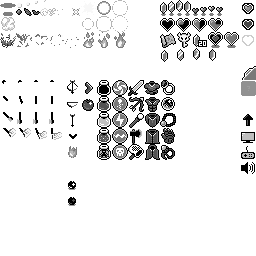
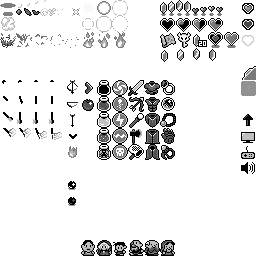
updated GameObjFunctions.SetType() to set all vendor object's sprite sheet to main sheet. moved vendors back into the main sheet, so we don't pollute dungeon sheets unnecessarily. moved rug sprites into main sheet, out of shop dungeon sheet. updated item vendor's animation list to use main sheet fra
moved 'VendorItems' value into ShopObjects section in ObjType enumerator.
created region 'ShopObjects' in GameObjAnimListManager, moved 'VendorItems' into this region.
created 'VendorAdvertisement' value in ObjType enumerator.
created 'VendorAdvertisement' animation list in GameObjAnimListManager, defaults to boomerang sprite.
created 'ShopObjects' region in GameObjFunctions.SetType(), some reorganization occurred.
created path in GameObjFunctions for VendorAdvertisement.
updated DungeonFunctions.FinishRoom() to create a VendorAdvertisement on stone table.
updated the Ad's current animation with list for all item sprites.
playtested, working as expected and looking great.

Changed region(s): [[0.3125, 0.9375, 0.6875, 1.0]]

diff --git a/DungeonRun/Classes/GameObjectFunctions.cs b/DungeonRun/Classes/GameObjectFunctions.cs
@@ -312,19 +312,6 @@ namespace DungeonRun
                 { Obj.group = ObjGroup.Chest; }
             }
 
-
-
-            else if (Type == ObjType.VendorItems)
-            {   //match the collision rec of a chest, for now
-                Obj.compCollision.offsetX = -7; Obj.compCollision.offsetY = -3;
-                Obj.compCollision.rec.Width = 14; Obj.compCollision.rec.Height = 11;
-                Obj.compSprite.zOffset = -7;
-                Obj.group = ObjGroup.Vendor;
-                Obj.compAnim.speed = 20; //in frames, may need to be slower
-            }
-
-
-
             else if (Type == ObjType.BlockDraggable)
             {
                 Obj.compCollision.rec.Height = 12;
@@ -401,6 +388,29 @@ namespace DungeonRun
             }
 
             #endregion
+
+
+            #region Shop Objects
+
+            else if (Type == ObjType.VendorItems)
+            {   //match the collision rec of a chest, for now
+                Obj.compCollision.offsetX = -7; Obj.compCollision.offsetY = -3;
+                Obj.compCollision.rec.Width = 14; Obj.compCollision.rec.Height = 11;
+                Obj.compSprite.zOffset = -7;
+                Obj.group = ObjGroup.Vendor;
+                Obj.compAnim.speed = 20; //slow animation
+            }
+
+            else if (Type == ObjType.VendorAdvertisement)
+            {
+                Obj.compCollision.blocking = false;
+                Obj.compSprite.zOffset = 32;
+                Obj.group = ObjGroup.Vendor;
+                Obj.compAnim.speed = 100; //slow animation
+            }
+
+            #endregion
+
 
 
             #region Items
@@ -521,6 +531,9 @@ namespace DungeonRun
 
             //particles do not block upon collision
             if (Obj.group == ObjGroup.Particle) { Obj.compCollision.blocking = false; }
+            //all vendors use the main sheet as their texture
+            if(Obj.group == ObjGroup.Vendor) { Obj.compSprite.texture = Assets.mainSheet; }
+
 
             SetRotation(Obj);
             GameObjectAnimListManager.SetAnimationList(Obj); //set obj animation list based on type

diff --git a/DungeonRun/Classes/GameObjectAnimListManager.cs b/DungeonRun/Classes/GameObjectAnimListManager.cs
@@ -101,9 +101,6 @@ namespace DungeonRun
                 //ChestEmpty
                 new List<Byte4> { new Byte4(2, 6, 0, 0) },
 
-                //VendorItems
-                new List<Byte4> { new Byte4(1, 7, 0, 0), new Byte4(1, 7, 1, 0) },
-
                 //BlockDraggable
                 new List<Byte4> { new Byte4(2, 4, 0, 0) },
                 //BlockDark
@@ -138,6 +135,16 @@ namespace DungeonRun
                 new List<Byte4> { new Byte4(7, 4, 0, 0), new Byte4(7, 5, 0, 0), new Byte4(7, 6, 0, 0), new Byte4(7, 7, 0, 0) },
                 //ConveyorBelt
                 new List<Byte4> { new Byte4(4, 6, 0, 0), new Byte4(5, 6, 0, 0), new Byte4(6, 6, 0, 0) },
+
+                #endregion
+
+
+                #region Shop Objects
+
+                //VendorItems
+                new List<Byte4> { new Byte4(5, 15, 0, 0), new Byte4(5, 15, 1, 0) },
+                //VendorAdvertisement
+                new List<Byte4> { new Byte4(5, 5, 0, 0) },
 
                 #endregion
 

diff --git a/DungeonRun/Classes/DungeonFunctions.cs b/DungeonRun/Classes/DungeonFunctions.cs
@@ -529,9 +529,20 @@ namespace DungeonRun
                 //item vendor
                 objRef = PoolFunctions.GetObj();
                 MovementFunctions.Teleport(objRef.compMove,
-                    7 * 16 + pos.X + 8,
-                    3 * 16 + pos.Y + 8);
+                    6 * 16 + pos.X + 8,
+                    4 * 16 + pos.Y + 8);
                 GameObjectFunctions.SetType(objRef, ObjType.VendorItems);
+                //item vendor advertisement
+                objRef = PoolFunctions.GetObj();
+                MovementFunctions.Teleport(objRef.compMove,
+                    7 * 16 + pos.X + 8,
+                    4 * 16 + pos.Y + 2);
+                GameObjectFunctions.SetType(objRef, ObjType.VendorAdvertisement);
+                //display all the items available for purchase
+                objRef.compAnim.currentAnimation = new List<Byte4>
+                { new Byte4(5, 5, 0, 0), new Byte4(5, 6, 0, 0) };
+
+
 
 
             }

diff --git a/DungeonRun/Classes/Enumerators.cs b/DungeonRun/Classes/Enumerators.cs
@@ -45,15 +45,19 @@ namespace DungeonRun
         WallStraight, WallStraightCracked, WallInteriorCorner, WallExteriorCorner, WallPillar, WallDecoration,
         PitTop, PitBottom, PitTrapReady, PitTrapOpening,
         BossStatue, BossDecal, Pillar, WallTorch, DebrisFloor,
+
         //Interactive Objects
         ChestGold, ChestKey, ChestMap, ChestHeartPiece, ChestEmpty,
-
-        VendorItems,
-
         BlockDraggable, BlockDark, BlockLight, BlockSpikes,
         Lever, PotSkull, SpikesFloor, Bumper, Flamethrower, Switch, Bridge,
         SwitchBlockBtn, SwitchBlockDown, SwitchBlockUp,
         TorchUnlit, TorchLit, ConveyorBelt,
+
+        //Shop Objects
+        VendorItems,
+        VendorAdvertisement,
+
+
         //Items - picked up by hero
         ItemRupee, ItemHeart,
         //Projectiles
